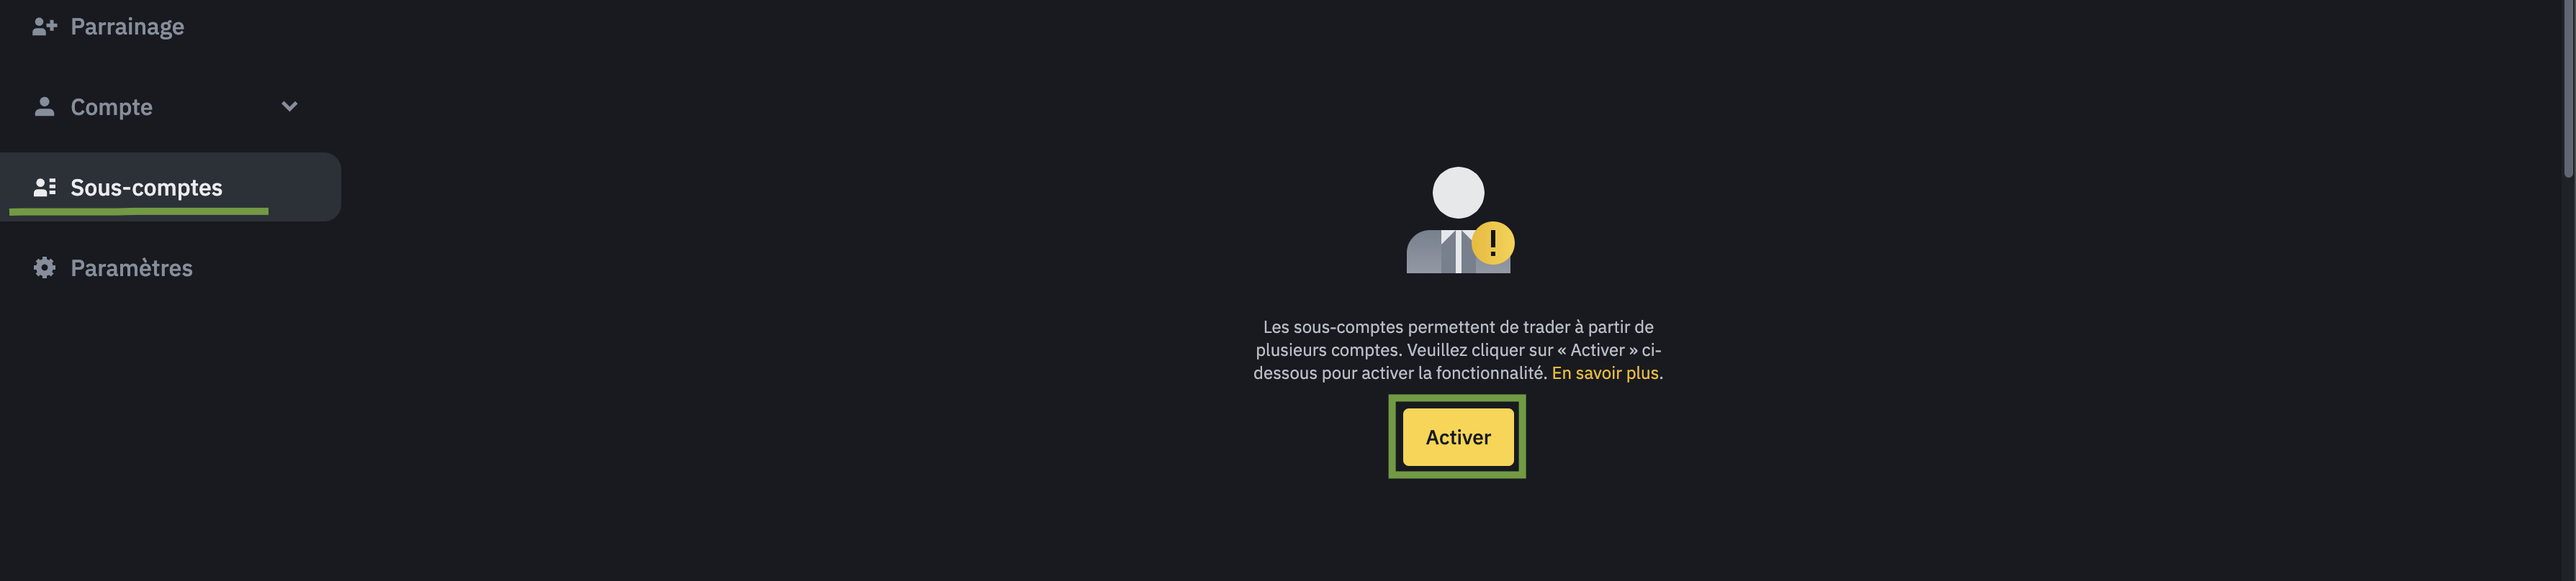
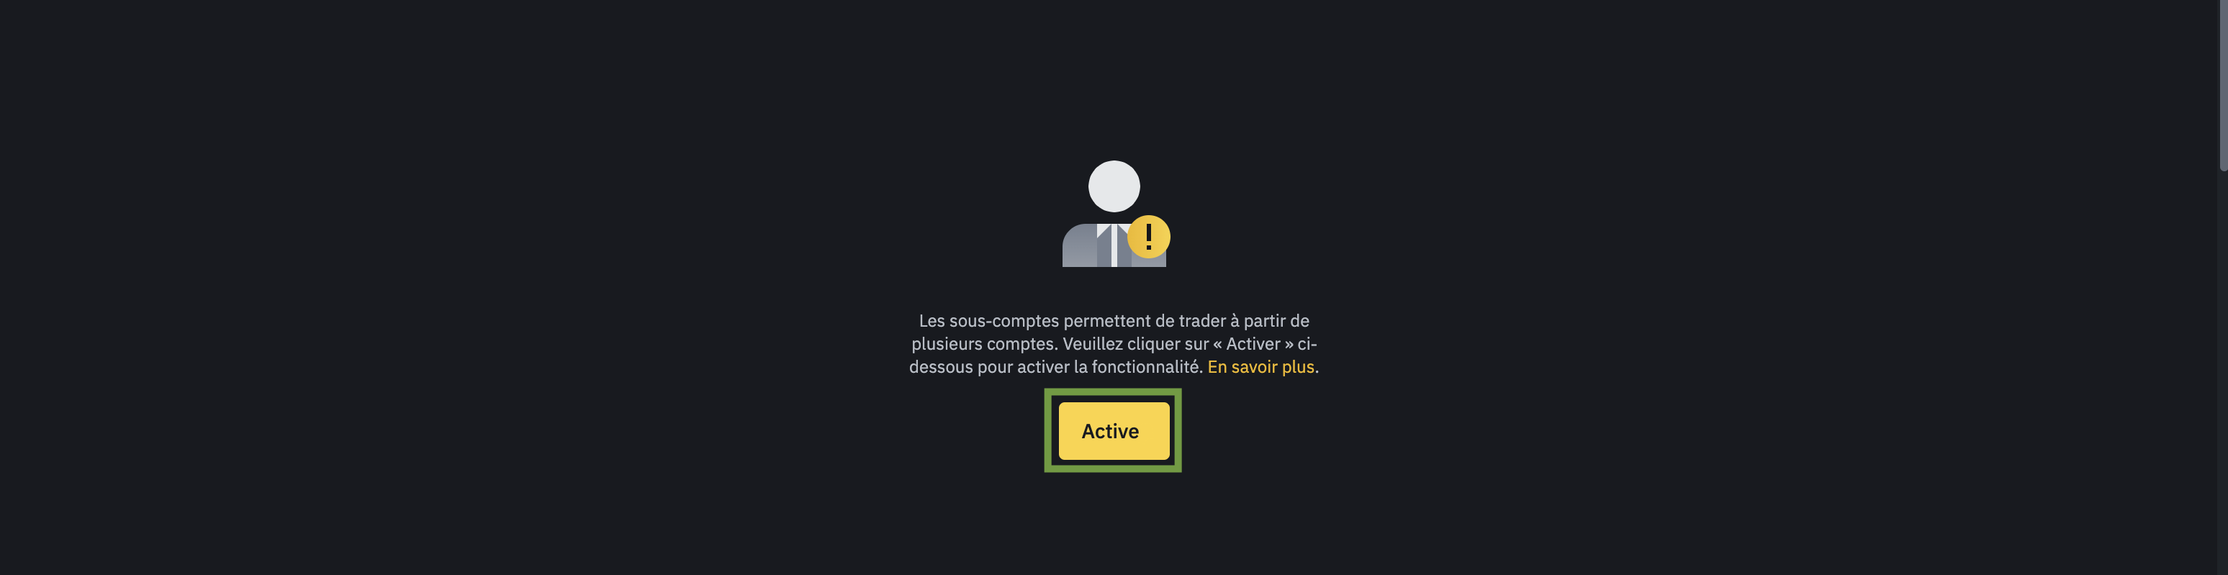
GITBOOK-222: change request with no subject merged in GitBook

diff --git a/systematic-investing/configuration/trading-platforms/binance-connect.md b/systematic-investing/configuration/trading-platforms/binance-connect.md
@@ -10,90 +10,119 @@ Log in or create a new account at [https://www.binance.com/](https://www.binance
 
 ### 2⃣ - Follow to the API manage page <a href="#h_a48ad1d4f3" id="h_a48ad1d4f3"></a>
 
-Hover over the **profile icon** on the top right corner, then click **Sub-Account** :&#x20;
+Hover over the **profile icon** on the top right corner, then click **API Management** :&#x20;
 
-<figure><img src="../../../.gitbook/assets/Capture d’écran 2024-01-08 à 18.48.35.png" alt=""><figcaption></figcaption></figure>
+<figure><img src="../../../.gitbook/assets/Capture d’écran 2024-01-09 à 13.08.41.png" alt=""><figcaption></figcaption></figure>
 
+### 3⃣ - Disable default API settings <a href="#h_9378d3c9a9" id="h_9378d3c9a9"></a>
 
+1. Scroll down and click the **check mark** to disable
 
-<figure><img src="../../../.gitbook/assets/Capture d’écran 2024-01-08 à 18.43.15 (1).png" alt=""><figcaption></figcaption></figure>
+<figure><img src="../../../.gitbook/assets/Capture d’écran 2024-01-09 à 13.14.47.png" alt=""><figcaption></figcaption></figure>
 
-
+2. **Check the box** to deactivate the default settings and click on **confirm**
 
 <div align="center" data-full-width="false">
 
-<figure><img src="../../../.gitbook/assets/Capture d’écran 2024-01-08 à 18.44.04 (1).png" alt="" width="375"><figcaption></figcaption></figure>
+<figure><img src="../../../.gitbook/assets/Capture d’écran 2024-01-09 à 13.22.49.png" alt="" width="375"><figcaption></figcaption></figure>
 
 </div>
 
+3. **Confirm again to finish**
 
+<figure><img src="../../../.gitbook/assets/Capture d’écran 2024-01-09 à 13.25.18.png" alt="" width="375"><figcaption></figcaption></figure>
 
-<figure><img src="../../../.gitbook/assets/Capture d’écran 2024-01-08 à 18.44.23.png" alt="" width="375"><figcaption></figcaption></figure>
+### 4⃣ - Security Verification <a href="#h_753d1e97a2" id="h_753d1e97a2"></a>
 
+1. Choose the security **verification method** you want to use
+2. Enter all needed verification codes and click **Confirm**&#x20;
 
+<figure><img src="../../../.gitbook/assets/Capture d’écran 2024-01-09 à 13.26.53.png" alt="" width="375"><figcaption></figcaption></figure>
 
-<figure><img src="../../../.gitbook/assets/Capture d’écran 2024-01-08 à 18.44.44.png" alt="" width="375"><figcaption></figcaption></figure>
+### 5⃣ - Make sure you have disabled the default settings
 
+You are then redirected to the general API Management page. Make sure the box is **unchecked** as in the example below.
 
+<figure><img src="../../../.gitbook/assets/Capture d’écran 2024-01-09 à 13.34.02 (1).png" alt=""><figcaption></figcaption></figure>
 
-<figure><img src="../../../.gitbook/assets/Capture d’écran 2024-01-08 à 18.46.40.png" alt=""><figcaption></figcaption></figure>
+### 6⃣ - Follow to the Sub-Account page <a href="#h_9378d3c9a9" id="h_9378d3c9a9"></a>
 
-### 3⃣ - Create Sub-Account <a href="#h_9378d3c9a9" id="h_9378d3c9a9"></a>
+Hover over the **profile icon** on the top right corner, then click **Sub-Account**&#x20;
 
-Click on Create Sub-Account :&#x20;
+<figure><img src="../../../.gitbook/assets/Capture d’écran 2024-01-09 à 14.07.32.png" alt=""><figcaption></figcaption></figure>
 
-<figure><img src="../../../.gitbook/assets/Capture d’écran 2023-12-27 à 11.41.21 (1).png" alt=""><figcaption></figcaption></figure>
+### 7⃣ - Active Sub-Account <a href="#h_9378d3c9a9" id="h_9378d3c9a9"></a>
 
+Click on **active**
 
+<figure><img src="../../../.gitbook/assets/Capture d’écran 2023-12-27 à 11.45.17 (1).png" alt=""><figcaption></figcaption></figure>
 
-<figure><img src="../../../.gitbook/assets/Capture d’écran 2023-12-27 à 11.43.46.png" alt=""><figcaption></figcaption></figure>
+### 8⃣ - Create Sub-Account <a href="#h_9378d3c9a9" id="h_9378d3c9a9"></a>
 
-
-
-<figure><img src="../../../.gitbook/assets/Capture d’écran 2023-12-27 à 11.45.17.png" alt=""><figcaption></figcaption></figure>
-
-
+Click on **Create Sub-Account**
 
 <figure><img src="../../../.gitbook/assets/Capture d’écran 2023-12-27 à 12.35.30.png" alt=""><figcaption></figcaption></figure>
 
+### 9⃣ - Sub-Account Configuration
 
+1. Choose **create with virtual email** for Sub-Account type
+2. Choose the **name** of your Sub-Account
+3. Click on **Create Sub-Account**
 
 <figure><img src="../../../.gitbook/assets/Capture d’écran 2023-12-27 à 12.40.53.png" alt="" width="375"><figcaption></figcaption></figure>
 
-
+4. You are then redirected to the general Sub-Account page. Make sure the Sub-Account you just created appears as in the example below
 
 <figure><img src="../../../.gitbook/assets/Capture d’écran 2023-12-27 à 12.41.35.png" alt=""><figcaption></figcaption></figure>
 
-### 6⃣ - Create API
+### 1⃣0⃣ - Follow to the API manage
 
-You are then redirected to the general Sub-Account page.&#x20;
+Go to API Management then click on **create API**
 
 <figure><img src="../../../.gitbook/assets/Capture d’écran 2023-12-27 à 12.46.16.png" alt=""><figcaption></figcaption></figure>
 
+### 1⃣1⃣ - Create API
 
+1. Select the first option “**System generated**”
 
 <figure><img src="../../../.gitbook/assets/Capture d’écran 2023-12-27 à 12.49.15.png" alt="" width="375"><figcaption></figcaption></figure>
 
-
+2. Select the virtual email that you created previously (virtual email associated with your Sub-Account)
 
 <figure><img src="../../../.gitbook/assets/Capture d’écran 2023-12-27 à 12.53.49.png" alt="" width="375"><figcaption></figcaption></figure>
 
-
+3. Choose a **name** for your API&#x20;
 
 <figure><img src="../../../.gitbook/assets/Capture d’écran 2023-12-27 à 12.55.49.png" alt="" width="375"><figcaption></figcaption></figure>
 
+### 1⃣2⃣ - API Configuration
 
+You are then redirected to the API Management page.&#x20;
+
+1. Click Modify to configure your API
 
 <figure><img src="../../../.gitbook/assets/Capture d’écran 2023-12-27 à 13.05.16 (1).png" alt=""><figcaption></figcaption></figure>
 
-
+2. Click Modify again
 
 <figure><img src="../../../.gitbook/assets/Capture d’écran 2023-12-27 à 13.08.11.png" alt=""><figcaption></figcaption></figure>
 
-
+3. Click on the box “enable SPOT trading and Margin”
 
 <figure><img src="../../../.gitbook/assets/Capture d’écran 2024-01-08 à 18.54.08 (1).png" alt=""><figcaption></figcaption></figure>
 
-
+4. You are then redirected to the API Management page. Make sure the **SPOT box is checked** as in the example below
 
 <figure><img src="../../../.gitbook/assets/Capture d’écran 2024-01-08 à 18.57.13 (1).png" alt=""><figcaption></figcaption></figure>
+
+### 1⃣3⃣ - Connect your API to the Trustia application
+
+Login to the Trustia application and go to the API Key section : [https://app.trustia.finance/api-keys](https://app.trustia.finance/api-keys)
+
+1. Select **Binance** as your exchange platform&#x20;
+2. Choose a **name** for your API&#x20;
+3. Pasted your **API Key** (1⃣2⃣)
+4. Pasted your **Secret** (1⃣2⃣)
+5. Click on **Add**
+
+<figure><img src="../../../.gitbook/assets/Capture d’écran 2024-01-09 à 16.38.43.png" alt=""><figcaption></figcaption></figure>

diff --git a/systematic-investing/configuration/trading-platforms/kucoin-connect.md b/systematic-investing/configuration/trading-platforms/kucoin-connect.md
@@ -21,7 +21,7 @@ coverY: 0
 
 Log in or create a new account at [https://www.kucoin.com/](https://www.kucoin.com/ucenter/signup?rcode=r352QTN).
 
-### 2⃣ - Follow to the API page <a href="#h_a48ad1d4f3" id="h_a48ad1d4f3"></a>
+### 2⃣ - Follow to the Sub-Account page <a href="#h_a48ad1d4f3" id="h_a48ad1d4f3"></a>
 
 Hover over the **profile icon** on the top right corner, then click **Sub-Account** :&#x20;
 
